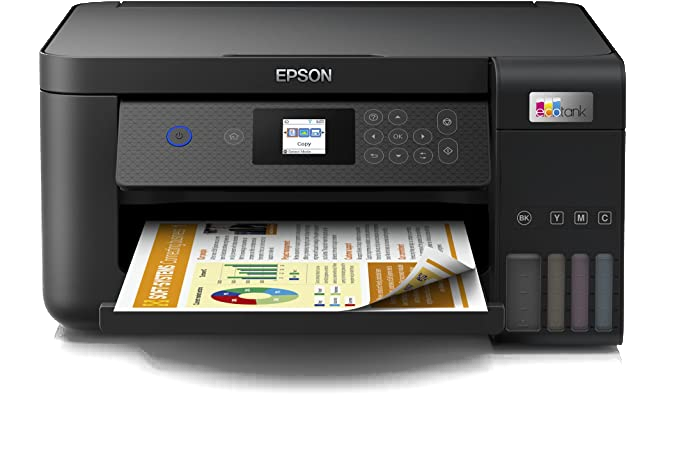
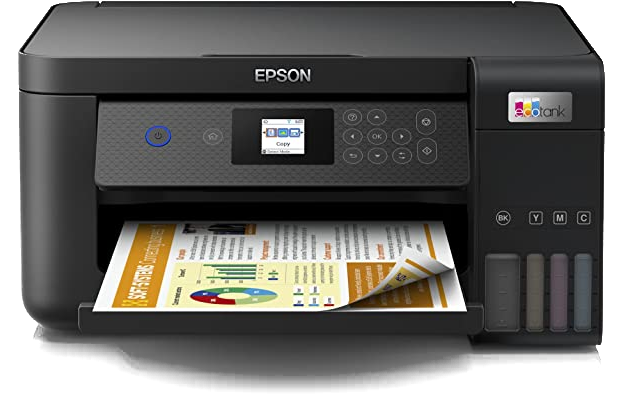
change impressora img and imprecion img from servicios

diff --git a/index.html b/index.html
@@ -100,11 +100,14 @@
                 
                 <article class="card">
                     <figure class="card__image__container">
-                        <img src="assets/images/impressora_.png" alt="Impresora">
+                        <img src="assets/images/imprecion_.png" alt="Impreção">
                     </figure>
                     <div class="card__body">
-                        <h3>Locacao de Impressoras</h3>
-                        <p>Oferecemos serviços de aluguel de impressoras, para quem precisa de uma impressora para um projeto temporário ou para quem não quer investir em uma nova.</p>
+                        <h3>Impreção e Outsourcing de Impreção</h3>
+                        <p>Você precisa imprimir algo, mas não tem uma impressora? 
+                            Não quer se preocupar com o custo e manutenção de uma? 
+                            Oferecemos serviços de impressão e outsourcing para que você 
+                            possa obter suas impressões de maneira fácil e conveniente.</p>
                         <div class="container_btn">
                             <button class="btn saber__mais">Saber Mais</button>
                         </div>
@@ -147,7 +150,7 @@
 
                 <article class="card">
                     <figure class="card__image__container">
-                        <img src="assets/images/samsung_.png" alt="Tablet">
+                        <img src="assets/images/iphone_.png" alt="Celular">
                     </figure>
                     <div class="card__body">
                         <h3>Reparação de Celulares</h3>
@@ -163,7 +166,7 @@
 
                 <article class="card">
                     <figure class="card__image__container">
-                        <img src="assets/images/toners.png" alt="Impresora">
+                        <img src="assets/images/toners.png" alt="Toners">
                     </figure>
                     <div class="card__body">
                         <h3>Recarga e Venda de Toners e Cartuchos</h3>

diff --git a/assets/style.css b/assets/style.css
@@ -32,6 +32,8 @@ img { display: block;}
 .centred{
     margin-inline: auto;
 }
+
+
 /* end of utility classes*/
 
 /* CLASSES FOR ALL BODY */
@@ -222,12 +224,15 @@ que en cerca de los 650px haga wrapping
 }
 
 
-.card__image__container{
+/* .card__image__container{
     width:100%;
-}
+} */
 .card__image__container img{
     width:100%;
 }
+/* .card__image__container img:first-child{
+    margin-bottom: -50px;
+} */
 .card__body{
     margin-top: 20px;
     line-height: 1.4;
